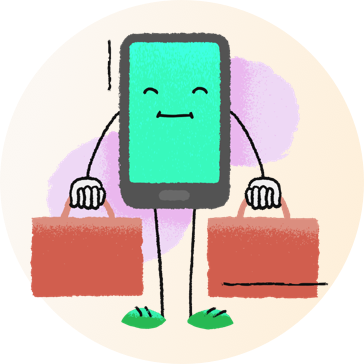
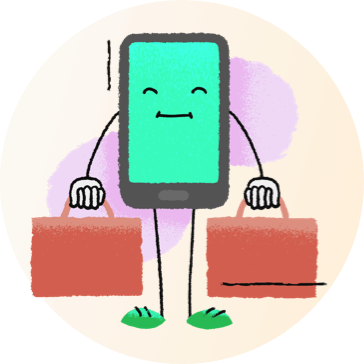
fix images

diff --git a/assets/style.css b/assets/style.css
@@ -12,7 +12,7 @@ img {
 
 .header {
   padding-top: 45px;
-  background-image: url(./images/header_bg_left.png);
+  background-image: url(./images/header_bg_left.svg);
   background-repeat: no-repeat;
   background-position: left top;
   background-size: 33% auto;

diff --git a/index.php b/index.php
@@ -214,7 +214,7 @@
           </div>
         </div>
       </div>
-      <img src="assets/images/question_bg.png" alt="Question Right Background" class="question-right-bg" />
+      <img src="assets/images/question_bg.svg" alt="Question Right Background" class="question-right-bg" />
     </section>
 
     <section class="featured-in">
@@ -243,7 +243,7 @@
       <div class="container">
         <div class="row">
           <div class="col-md-5 col-lg-6 d-none d-sm-block position-static">
-            <img src="assets/images/testimonial_bg.png" class="footer-right-image" alt="Header Image Right" />
+            <img src="assets/images/testimonial_bg.svg" class="footer-right-image" alt="Header Image Right" />
           </div>
           <div class="col-md-7 col-lg-6 col-sm-12">
             <div class="join-ny-section">
